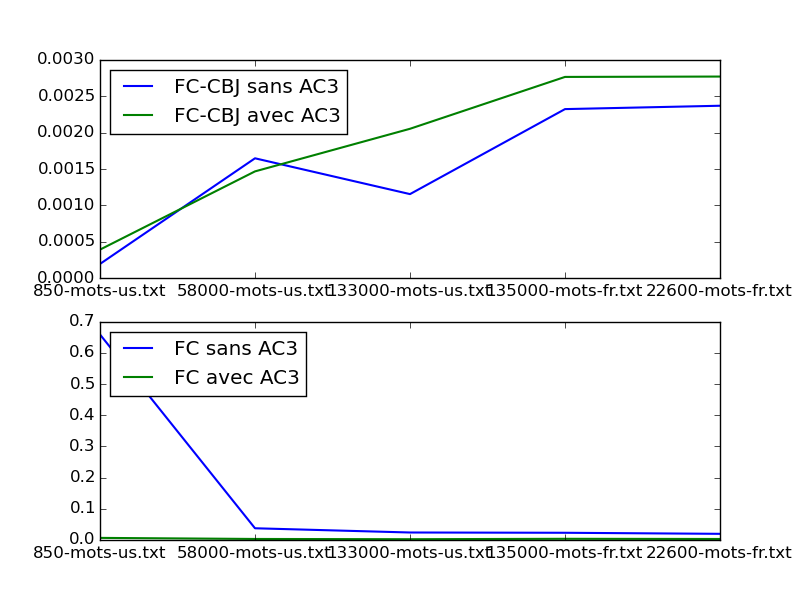
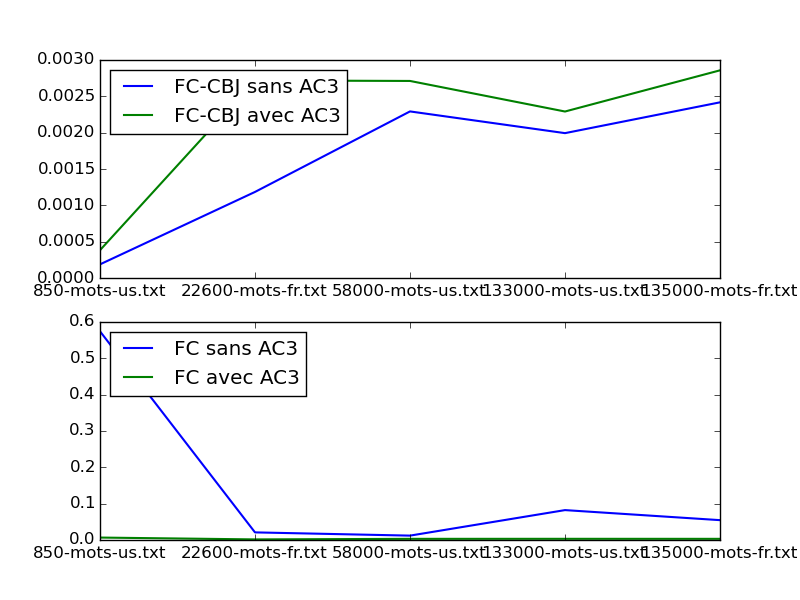
avec thread pour lancer toutes les fct en mm tps

diff --git a/src/projet_rp.py b/src/projet_rp.py
@@ -10,8 +10,9 @@ import time,os
 import numpy as np
 import matplotlib.pyplot as plt
 import gestDict as dic
+import threading
 
-ITERATIONS = 50
+ITERATIONS = 20
 LIGN_DEF = 5
 LIGN_MIN = 3
 LIGN_MAX = 9
@@ -20,6 +21,7 @@ CASE_NOIRE_MIN = 0
 CASE_NOIRE_MAX = 9
 
 algos = ['FC sans AC3','FC avec AC3','FC-CBJ sans AC3','FC-CBJ avec AC3']
+dicos = ["850-mots-us.txt","22600-mots-fr.txt","58000-mots-us.txt","133000-mots-us.txt","135000-mots-fr.txt"]
 
 def tpsAlgosUneGrid(grid,nbIter=ITERATIONS):
     # on recupere le dictionnaire
@@ -71,8 +73,7 @@ def boxPlotTabs(xlabels,ylabel,data,title):
         nbCol = nbLbls/nbLign+nbLbls%2
         plt.subplot(nbLign,nbCol,i)
         plt.boxplot(data[i-1])
-    #    plt.title(xlabels[i])
-        plt.xlabel(xlabels[i-1])
+        plt.xticks([1],xlabels[i-1])
     plt.ylabel(ylabel)
     plt.savefig(io.PLOT_PATH+'algos_diff_'+title+'.png')
     #plt.show()
@@ -116,8 +117,7 @@ def plotsDiffDicos(grid,title):
     tpsFcAc3 = []
     tpsCbj = []
     tpsCbjAc3 = []
-    #dicos = ["850-mots-us.txt","22600-mots-fr.txt","58000-mots-us.txt","133000-mots-us.txt","135000-mots-fr.txt"]
-    dicos = os.listdir('./data/Dicos/')
+    #dicos = os.listdir('./data/Dicos/')
     print dicos
     if grid is None:
         grid = io.GrilleMots.genere_grid(LIGN_DEF,LIGN_DEF,CASE_NOIRE_MIN)
@@ -192,6 +192,16 @@ def applyAlgo(solv,grid,AC3=False,FC=False,CBJ=False):
         grid.clearAllVariables()
     return np.mean(tps)
 
+class Task(threading.Thread): 
+    def __init__(self, fonct,args=()): 
+        threading.Thread.__init__(self)
+        self.fct = fonct
+        self.args = args
+    
+    def run(self):
+        self.fct(*self.args)
+        self.taskFinished.emit()
+        
 ### TESTS
 # on recupere les 3 grilles exemples
 A = io.read_file("grille1.txt")[0]
@@ -211,13 +221,25 @@ boxPlotTabs(algos,'Temps',times,"grilleB")
 times = tpsAlgosUneGrid(C)
 boxPlotTabs(algos,'Temps',times,"grilleC")
 """
-# pour comparer selon des tailles de grilles differerentes
-plotsGridLength()
 
+# pour comparer selon des tailles de grilles differerentes
+#plotsGridLength()
+
+"""
 # pour comparer selon des tailles de dicos
-#plotsDiffDicos(A,"grilleA")
-#plotsDiffDicos(B,"grilleB")
-#plotsDiffDicos(C,"grilleC")
+plotsDiffDicos(A,"grilleA")
+plotsDiffDicos(B,"grilleB")
+plotsDiffDicos(C,"grilleC")
+"""
 
 # pour comparer selon le nombre de cases noires pour une grille fixee
 #plotsNoiresDiff()
+
+# pour les lancer dans un thread : Task(nomFct,tupleArguments)  ;)
+# EX:
+t1 = Task(plotsGridLength)
+t2 = Task(plotsNoiresDiff)
+#t3 = Task(plotsDiffDicos,(A,'grilleA'))
+#t3.start()
+t1.start()
+t2.start()
